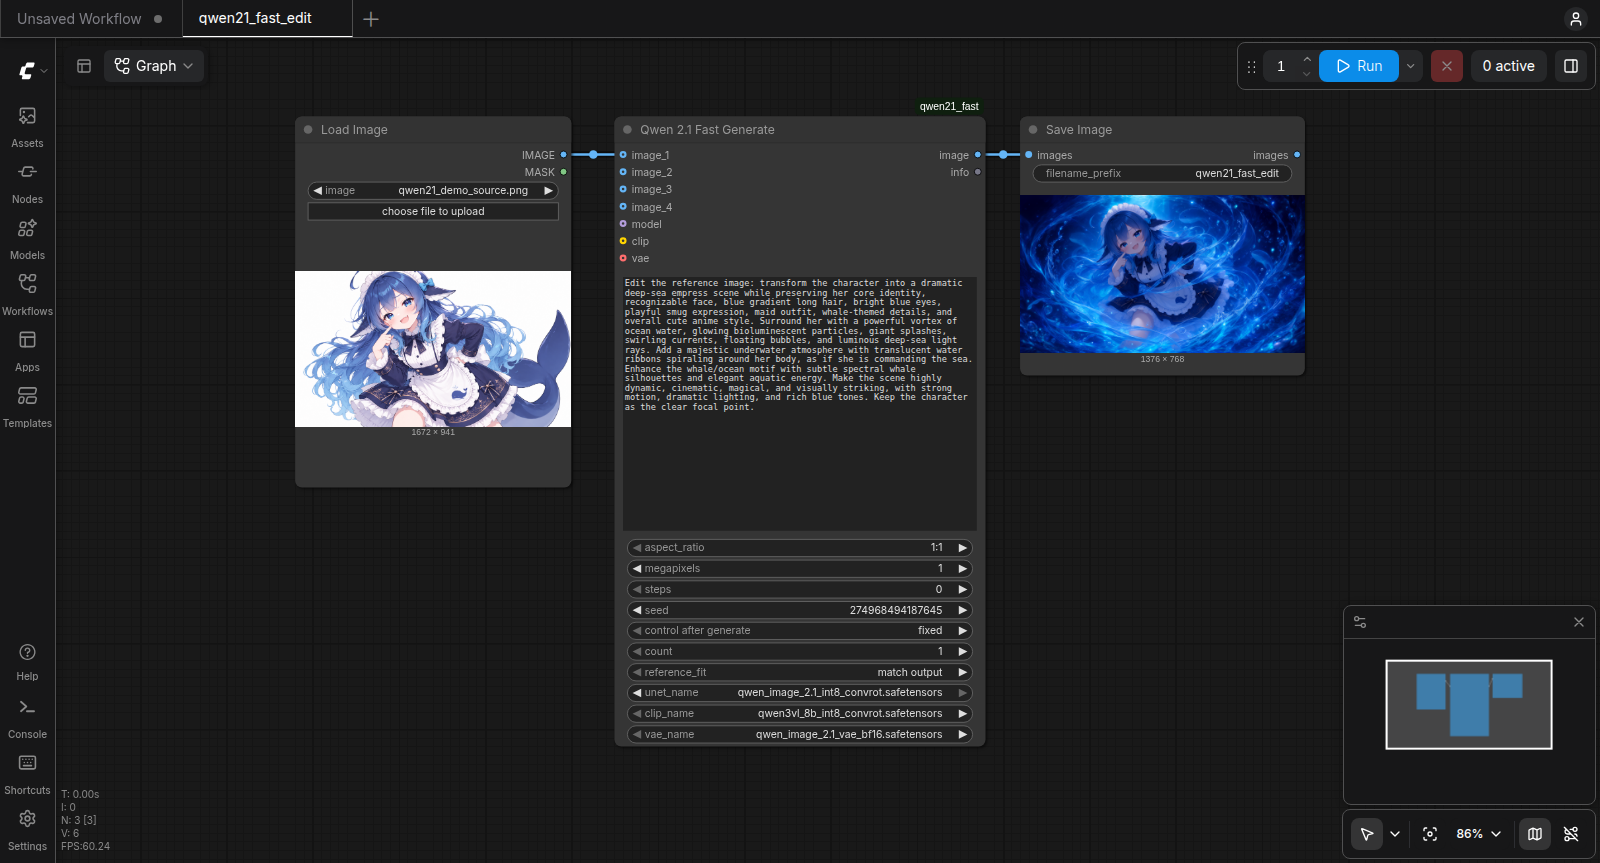
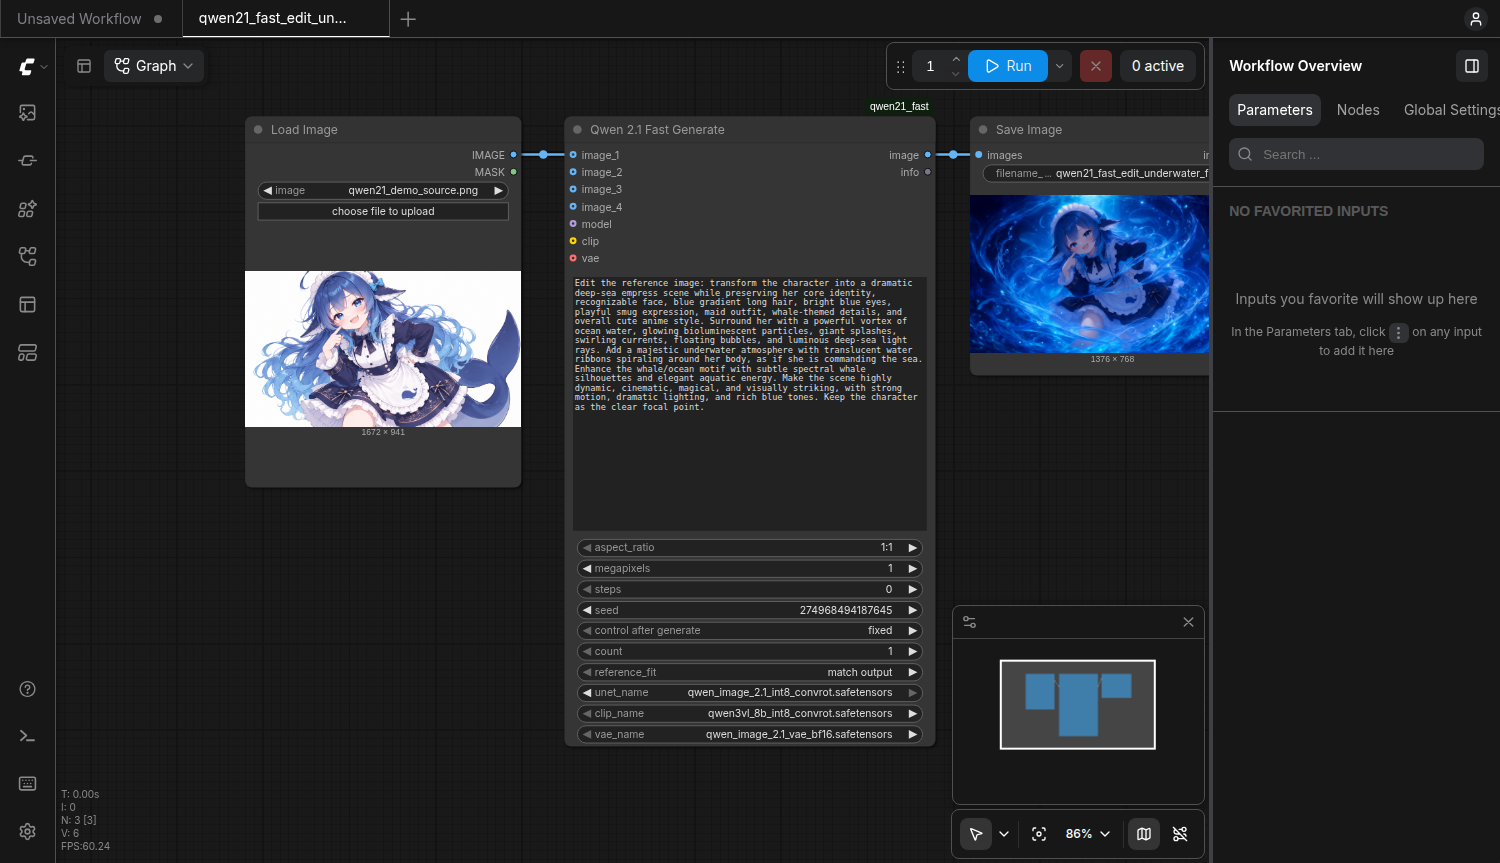
docs: split underwater edit demos by seed mode

diff --git a/make_qwen21_workflows.py b/make_qwen21_workflows.py
@@ -1,5 +1,5 @@
 #!/usr/bin/env python3
-"""Write the Qwen21FastGenerate demo workflows into ComfyUI's workflow list.
+"""Write the three Qwen21FastGenerate workflows into ComfyUI's workflow list.
 
 Widget order is derived from the live /object_info, and every node also gets
 widgets_values_named, so the workflow cannot drift out of sync with the node's inputs.
@@ -12,7 +12,7 @@ from pathlib import Path
 WF_DIR = Path(os.environ.get("COMFY_DIR", Path.home() / "ComfyUI")) / "user/default/workflows"
 HOST = os.environ.get("COMFY_HOST", "http://127.0.0.1:8188")
 DEMO_IMAGE = "qwen21_demo_source.png"
-DEMO_PROMPT = (Path(__file__).resolve().parent / "docs/demo/underwater.txt").read_text().strip()
+UNDERWATER_PROMPT = (Path(__file__).resolve().parent / "docs/demo/underwater.txt").read_text().strip()
 DEMO_SEED = 274968494187645
 
 def widget_values(node_id: str, overrides=None) -> tuple[list, dict]:
@@ -29,8 +29,8 @@ def widget_values(node_id: str, overrides=None) -> tuple[list, dict]:
             values.append(default)
             named[name] = default
             if name == "seed":
-                # Frontend-only widget. Text-to-image randomizes for a fresh image;
-                # the editing demo fixes its documented seed for reproducibility.
+                # Frontend-only widget. Only the underwater demo fixes its seed;
+                # text-to-image and the general editing workflow randomize.
                 control = overrides.get("control_after_generate", "randomize")
                 values.append(control)
                 named["control_after_generate"] = control   # the UI saves it under this name
@@ -39,9 +39,14 @@ def widget_values(node_id: str, overrides=None) -> tuple[list, dict]:
 
 def main() -> None:
     WF_DIR.mkdir(parents=True, exist_ok=True)
-    for edit in (False, True):
-        overrides = ({"prompt": DEMO_PROMPT, "seed": DEMO_SEED,
-                      "control_after_generate": "fixed"} if edit else {})
+    workflows = (
+        ("qwen21_fast_t2i", False, {}),
+        ("qwen21_fast_edit", True, {"prompt": UNDERWATER_PROMPT}),
+        ("qwen21_fast_edit_underwater_fixed", True,
+         {"prompt": UNDERWATER_PROMPT, "seed": DEMO_SEED,
+          "control_after_generate": "fixed"}),
+    )
+    for name, edit, overrides in workflows:
         values, named = widget_values("Qwen21FastGenerate", overrides)
         nodes = []
         links = []
@@ -70,9 +75,8 @@ def main() -> None:
             "flags": {}, "order": 2, "mode": 0,
             "inputs": [{"name": "images", "type": "IMAGE", "link": 2}], "outputs": [],
             "properties": {"Node name for S&R": "SaveImage"},
-            "widgets_values": ["qwen21_fast" + ("_edit" if edit else "")]})
+            "widgets_values": ["qwen21_fast" if not edit else name]})
         links.append([2, 2, 0, 3, 0, "IMAGE"])
-        name = "qwen21_fast_edit" if edit else "qwen21_fast_t2i"
         path = WF_DIR / f"{name}.json"
         json.dump({"last_node_id": 3, "last_link_id": 2, "nodes": nodes, "links": links,
                    "groups": [], "config": {}, "extra": {}, "version": 0.4},

diff --git a/README.en.md b/README.en.md
@@ -116,9 +116,10 @@ edit_keep_size     success  exec=  16.7s wall=  17.0s qwen21_test_edit_keep_size
 Open ComfyUI and choose from **Workflows**:
 
 - **Text-to-image:** open `qwen21_fast_t2i`, write a prompt, and press Run.
-- **Image editing:** open `qwen21_fast_edit` and press Run. The source image, underwater prompt, and seed are already set. To use your own image, select it in the LoadImage node.
+- **Image editing (underwater, new result each run):** open `qwen21_fast_edit` and press Run. It includes the girl as the source and the underwater prompt. Its seed control is `randomize`.
+- **Image editing (reproduce the underwater example):** open `qwen21_fast_edit_underwater_fixed` and press Run. It uses the same source and prompt, with seed `274968494187645` set to `fixed`.
 
-A second edit with identical settings uses the cache. Switch the seed control from `fixed` to `randomize` to try a new result.
+To use your own source, select it in LoadImage. A second run of the fixed-seed workflow with identical settings shows the cached result.
 
 The default UI is <http://127.0.0.1:8188>.
 
@@ -165,7 +166,7 @@ Connect a reference image to `image_1` and you are in edit mode. This is the sam
 character's identity, outfit and art style kept while only the surroundings change (the collage at the top
 shows the original plus the 3 edits).
 
-Open **Workflows → `qwen21_fast_edit`** to load the source image and underwater prompt shown below, then press Run. The central "Qwen 2.1 Fast Generate" node edits when `image_1` is connected; without a reference, it generates from text.
+Open **Workflows → `qwen21_fast_edit_underwater_fixed`** to load the source image and underwater prompt shown below. Seed `274968494187645` is fixed, so press Run to reproduce the example. For a new result each time, open `qwen21_fast_edit`. The central "Qwen 2.1 Fast Generate" node edits when `image_1` is connected; without a reference, it generates from text.
 
 ![ComfyUI editing workflow showing the source and underwater result](docs/demo/edit_workflow_en.png)
 
@@ -363,7 +364,7 @@ setting `reference_fit` to `keep original size` uses the reference image without
 time only when the reference is larger than the output (at 1024x1024 the two modes measure the same,
 15.9 s vs 16.7 s).
 
-The bundled `workflows/qwen21_fast_edit.json` loads the source image that `install.sh` places at
+Both bundled editing workflows load the source image that `install.sh` places at
 `ComfyUI/input/qwen21_demo_source.png`. To use your own image, select it in the LoadImage node.
 
 ## 5. Inside the node
@@ -373,7 +374,7 @@ The bundled `workflows/qwen21_fast_edit.json` loads the source image that `insta
 | input | `prompt` | describe the new image, or, when editing, what to change and what to keep |
 | input | `aspect_ratio` × `megapixels` | aspect ratio (1:1 / 4:3 / 3:4 / 3:2 / 2:3 / 16:9 / 9:16) and size (0.5 / 1 / 2 / 4 MP). **1MP = 1024x1024, 4MP = 2048x2048**. With a reference connected the output takes the reference's aspect ratio, so `aspect_ratio` is ignored; `megapixels` then fixes the **area** (a 16:9 reference at `megapixels=2` comes out 1920x1088 - not 1440 wide, but about the same area as 1440x1440) |
 | input | `steps` | 0 = automatic (**12 steps when the long side is 1024 px or less**, 20 above that. 1:1 at 1MP takes 12; 4:3 and 16:9 at 1MP have a 1184 / 1376 px long side, so they take 20) |
-| input | `seed` | the random seed. A new node and the text-to-image workflow use `randomize` for a new image each run. The editing demo alone uses `fixed` so the underwater example is reproducible. Switch it to `randomize` to try other results |
+| input | `seed` | the random seed. Text-to-image and `qwen21_fast_edit` use `randomize` for a new image each run. Only `qwen21_fast_edit_underwater_fixed` uses `fixed` (`274968494187645`) to reproduce the underwater example |
 | input | `count` | how many to make at once (seed, seed+1, …). The results come back together |
 | input | `reference_fit` | how reference images are handled (`match output` = match the output size / `keep original size` = keep the reference's original size. The latter is only lighter when the reference is bigger than the output; with a 1024x1024 reference the two measure the same, 15.9 s vs 16.7 s) |
 | input | `unet_name` / `clip_name` / `vae_name` | which of the three weight files (the default is the three above) |
@@ -580,7 +581,7 @@ UI appears (`127.0.0.1` means "this very PC you are using", so you open it in a 
 ```
 ComfyUI UI      http://127.0.0.1:8188     ← open this in a browser
                 ├── the node list: "Qwen 2.1 Fast Generate"
-                ├── the workflows: Workflows ▸ qwen21_fast_t2i / qwen21_fast_edit
+                ├── the workflows: Workflows ▸ qwen21_fast_t2i / qwen21_fast_edit / qwen21_fast_edit_underwater_fixed
                 └── the API the scripts use: http://127.0.0.1:8188/prompt, /history, /object_info
 ```
 
@@ -638,7 +639,8 @@ check.sh                         syntax checks (bash / python / workflow JSON)
 MEASUREMENTS.md                  the raw measurement log
 custom_nodes/qwen21_fast/        the node itself (a combination of ComfyUI's standard nodes)
 workflows/qwen21_fast_t2i.json   the workflow that generates from a prompt
-workflows/qwen21_fast_edit.json  the edit workflow with a reference image connected
+workflows/qwen21_fast_edit.json  source-to-underwater editing (random seed)
+workflows/qwen21_fast_edit_underwater_fixed.json  source-to-underwater editing (fixed seed)
 make_qwen21_workflows.py         rebuild the workflows from the node's specification
 test_qwen21.py                   verification (sizes, count, edit)
 test_qwen21_edit.py              a one-off edit from the command line
@@ -661,7 +663,7 @@ The diagrams and screenshots can be regenerated: `./docs/render_diagram.sh` redr
 `python3 docs/capture_ui.py docs --lang en --run` screenshots a running ComfyUI with the workflow loaded
 (`ui_empty_en.png` as it opens, `ui_workflow_en.png` once the workflow is loaded, and with `--run` it
 generates one image and also writes `ui_used_en.png`; `--lang ja` for the Japanese UI). The editing
-demo screen was captured with `--workflow qwen21_fast_edit --run`.
+demo screen was captured with `--workflow qwen21_fast_edit_underwater_fixed --run`.
 
 ## 13. License
 

diff --git a/MEASUREMENTS.md b/MEASUREMENTS.md
@@ -195,5 +195,6 @@ python3 test_qwen21.py     # 起動中のComfyUIに対し 5ケースを実行（
 python3 test_qwen21_edit.py <参照.png> "<指示文>" [メガピクセル] [keep]   # 任意画像の編集を1回だけ
 ```
 
-ワークフローを開いて手で回す場合は `workflows/qwen21_fast_t2i.json` /
-`workflows/qwen21_fast_edit.json` を `~/ComfyUI/user/default/workflows/` にコピーする。
+ワークフローを開いて手で回す場合は `workflows/` 内の3つのJSONを
+`~/ComfyUI/user/default/workflows/` にコピーする。画像編集の2つは
+`docs/demo/source.png` を `~/ComfyUI/input/qwen21_demo_source.png` にコピーして使う。
